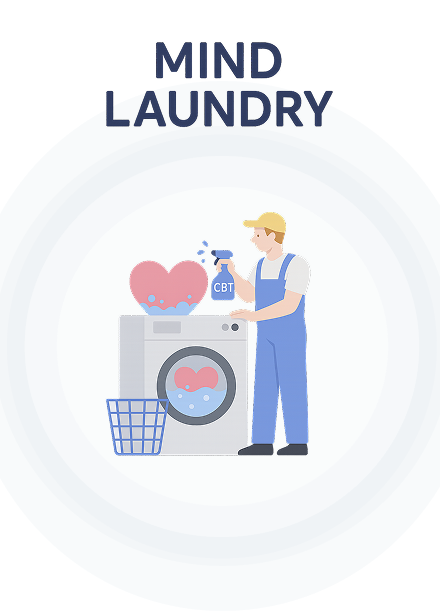
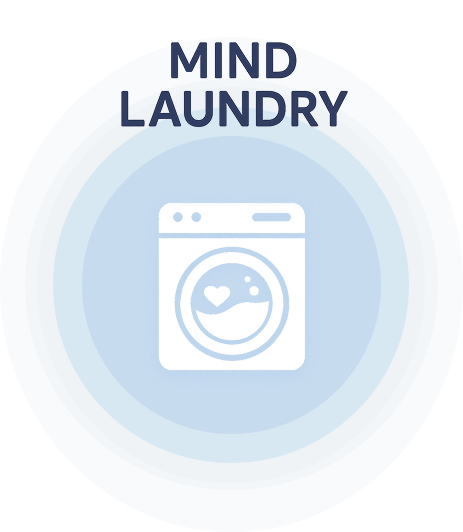
Feat: home_screen 이미지 변경, distortion 상세 페이지 화살표 기능

diff --git a/lib/screens/home_screen.dart b/lib/screens/home_screen.dart
@@ -18,13 +18,13 @@ class _HomeScreenState extends State<HomeScreen> with SingleTickerProviderStateM
   @override
   Widget build(BuildContext context) {
     return Scaffold(
-      backgroundColor: const Color(0xFFADCCEC),
+      backgroundColor: Colors.white,
       body: SafeArea(
         child: Stack(
           children: [
             // 상단: 캘린더 아이콘
             Positioned(
-              top: 16,
+              top: 30,
               left: 16,
               child: Material(
                 color: Colors.transparent,
@@ -36,18 +36,18 @@ class _HomeScreenState extends State<HomeScreen> with SingleTickerProviderStateM
                   child: Padding(
                     padding: const EdgeInsets.all(8.0),
                     child: Image.asset(
-                      'assets/icons/today.png', // 아이콘 이미지 경로
-                      width: 40,  // 원하는 크기 설정
-                      height: 40, // 원하는 크기 설정
+                      'assets/icons/today.png',
+                      width: 40,
+                      height: 40,
                     ),
                   ),
                 ),
               ),
             ),
 
-            // 상단: 프로필 아이콘
+            // 오른쪽 상단: 프로필 아이콘
             Positioned(
-              top: 16,
+              top: 30,
               right: 16,
               child: Material(
                 color: Colors.transparent,
@@ -59,9 +59,9 @@ class _HomeScreenState extends State<HomeScreen> with SingleTickerProviderStateM
                   child: Padding(
                     padding: const EdgeInsets.all(8.0),
                     child: Image.asset(
-                      'assets/icons/account_circle.png', // 아이콘 이미지 경로
-                      width: 40,  // 원하는 크기 설정
-                      height: 40, // 원하는 크기 설정
+                      'assets/icons/account_circle.png',
+                      width: 40,
+                      height: 40,
                     ),
                   ),
                 ),
@@ -69,37 +69,41 @@ class _HomeScreenState extends State<HomeScreen> with SingleTickerProviderStateM
             ),
 
             // 중앙 : 이미지 + 텍스트
-            Center(
-              child: GestureDetector(
-                onTap: () {
-                  Navigator.push(
-                    context,
-                    MaterialPageRoute(builder: (context) => DistortionDetail()),
-                  );
-                },
-                child: Stack(
-                  alignment: Alignment.center,
-                  children: [
-                    Image.asset('assets/images/home_screen.png'),
-                    Positioned(
-                      bottom: 35,
-                      child: Text(
-                        'Tap on the picture!',
-                        style: TextStyle(
-                          fontSize: 16,
-                          color: Colors.white,
-                          fontWeight: FontWeight.w500,
-                          shadows: [
-                            Shadow(
-                              offset: Offset(0, 1),
-                              blurRadius: 2,
-                              color: Colors.black45,
-                            ),
-                          ],
+            Align(
+              alignment: Alignment.topCenter,
+              child: Padding(
+                padding: const EdgeInsets.only(top: 160.0), // 원하는 만큼 조절
+                child: GestureDetector(
+                  onTap: () {
+                    Navigator.push(
+                      context,
+                      MaterialPageRoute(builder: (context) => DistortionDetail()),
+                    );
+                  },
+                  child: Stack(
+                    alignment: Alignment.center,
+                    children: [
+                      Image.asset('assets/images/home_screen.png'),
+                      Positioned(
+                        bottom: 20,
+                        child: Text(
+                          'Tap on the picture!',
+                          style: TextStyle(
+                            fontSize: 16,
+                            color: Colors.black54,
+                            fontWeight: FontWeight.w500,
+                            shadows: [
+                              Shadow(
+                                offset: Offset(0, 1),
+                                blurRadius: 2,
+                                color: Colors.black45,
+                              ),
+                            ],
+                          ),
                         ),
                       ),
-                    ),
-                  ],
+                    ],
+                  ),
                 ),
               ),
             ),

diff --git a/lib/screens/distortion_detail.dart b/lib/screens/distortion_detail.dart
@@ -28,6 +28,18 @@ class _DistortionDetailState extends State<DistortionDetail> {
     'SHOULD_STATEMENTS',
   ];
 
+  void _changeImage(bool isNext) {
+    setState(() {
+      if (isNext) {
+        // 오른쪽 버튼 클릭 시 인덱스 증가
+        selectedIndex = (selectedIndex + 1) % distortionNames.length;
+      } else {
+        // 왼쪽 버튼 클릭 시 인덱스 감소
+        selectedIndex = (selectedIndex - 1 + distortionNames.length) % distortionNames.length;
+      }
+    });
+  }
+
   int selectedIndex = 13; // 기본으로 OVERGENERALIZATION (index 13)
   bool isDescription = false;
 
@@ -66,9 +78,71 @@ class _DistortionDetailState extends State<DistortionDetail> {
                         height: 370,
                       ),
                     ),
+                    Positioned(
+                      bottom: 30,
+                      child: Image.asset(
+                        'assets/icons/flip.png',
+                        width: 25,
+                        height: 25,
+                      ),
+                    ),
                   ],
                 ),
-                // 화살표는 생략
+                // 왼쪽 화살표
+                Positioned(
+                  left: 0,
+                  child: Container(
+                    width: 40,
+                    height: 40,
+                    decoration: const BoxDecoration(
+                      shape: BoxShape.circle,
+                      color: Colors.white,
+                      boxShadow: [
+                        BoxShadow(
+                          color: Colors.black26,
+                          blurRadius: 4,
+                          offset: Offset(2, 2),
+                        ),
+                      ],
+                    ),
+                    child: IconButton(
+                      icon: const Icon(Icons.arrow_left),
+                      onPressed: () {
+                        debugPrint('Left arrow clicked');
+                        _changeImage(false);
+                        isDescription=false;
+                      },
+                    ),
+                  ),
+                ),
+
+                // 오른쪽 화살표 버튼
+                Positioned(
+                  right: 0,
+                  child: Container(
+                    width: 40,
+                    height: 40,
+                    decoration: const BoxDecoration(
+                      shape: BoxShape.circle,
+                      color: Colors.white,
+                      boxShadow: [
+                        BoxShadow(
+                          color: Colors.black26,
+                          blurRadius: 4,
+                          offset: Offset(2, 2),
+                        ),
+                      ],
+                    ),
+                    child: IconButton(
+                      icon: const Icon(Icons.arrow_right),
+                      onPressed: () {
+                        debugPrint('Right arrow clicked');
+                        _changeImage(true);
+                        isDescription=false;
+                      },
+                    ),
+                  ),
+                ),
               ],
             ),
           ),
@@ -97,6 +171,7 @@ class _DistortionDetailState extends State<DistortionDetail> {
                         setState(() {
                           selectedIndex = index;
                         });
+                        isDescription=false;
                       },
                       child: Container(
                         decoration: BoxDecoration(
